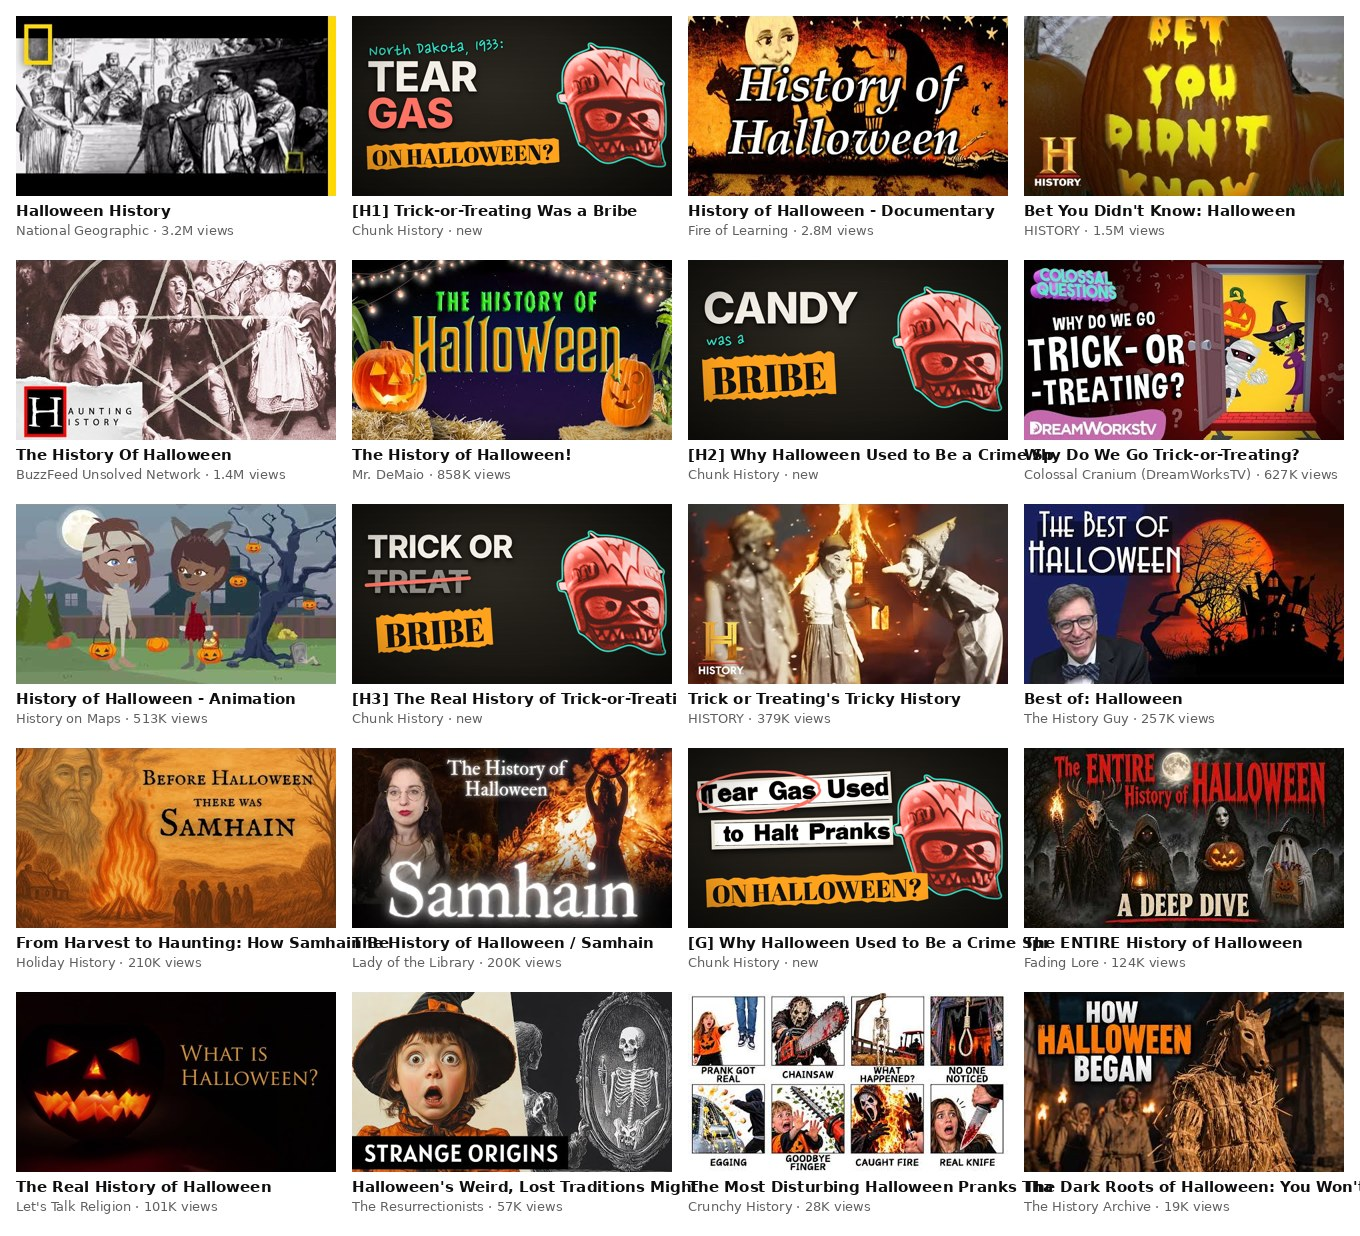
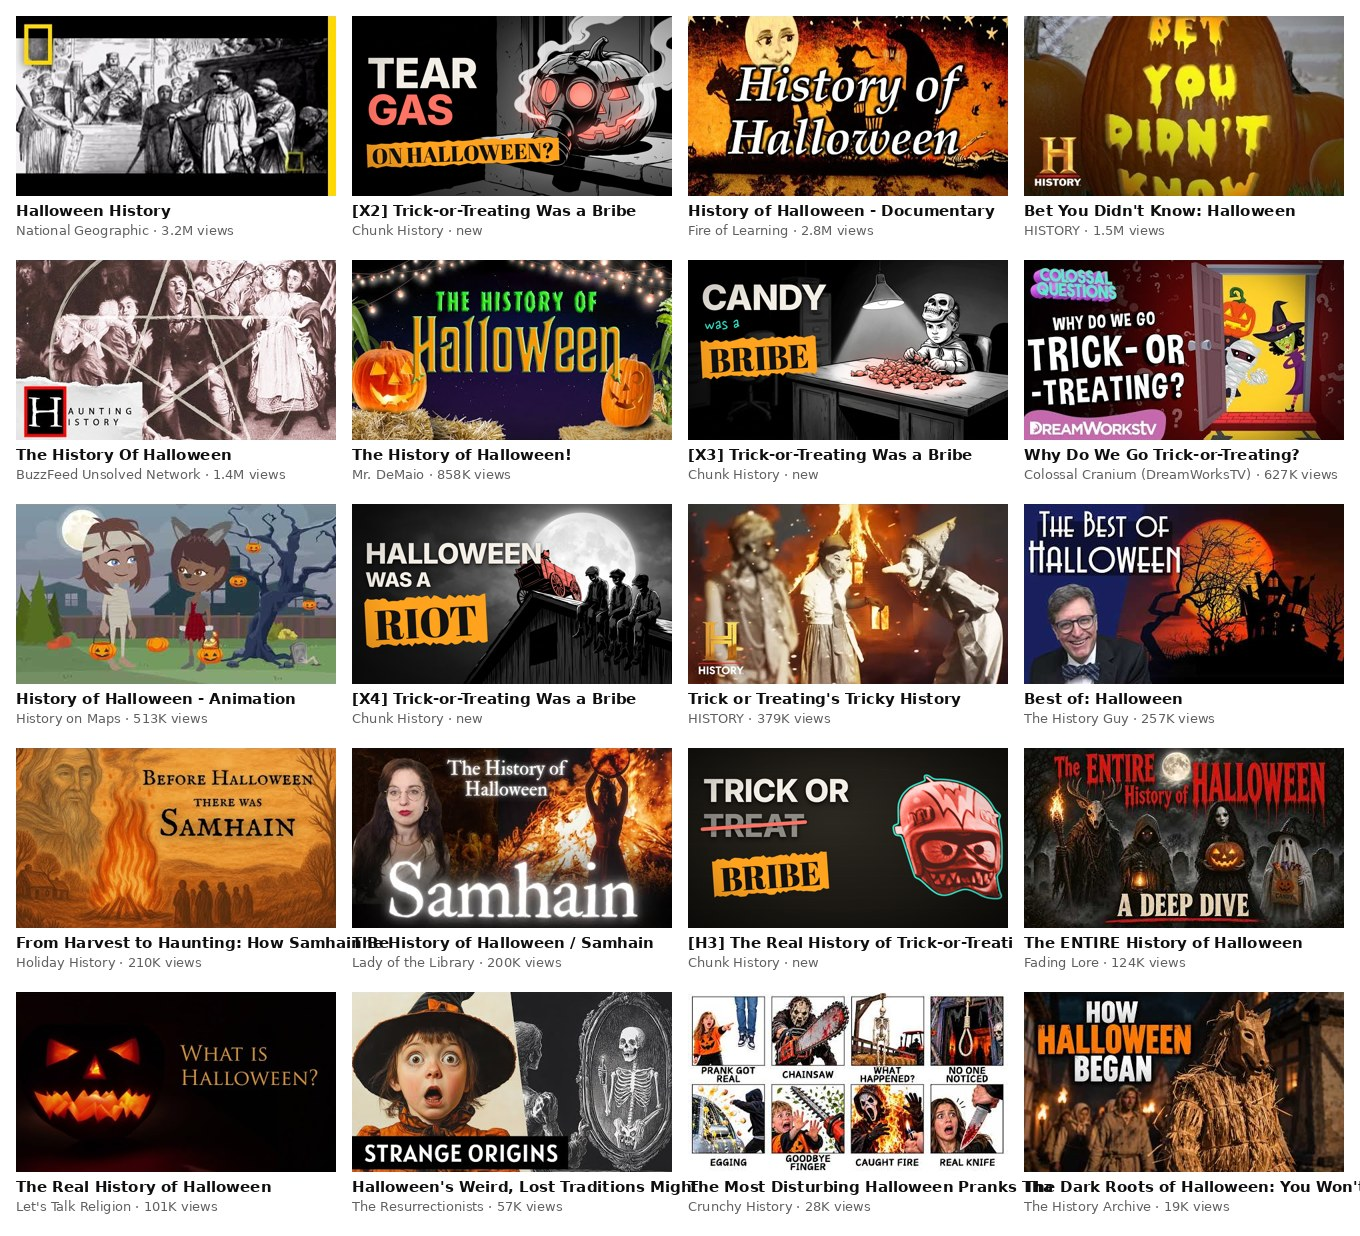
Halloween: thumbnail-only Gemini concepts X1-X5 (B&W + coral accent, 2K)
Claude-Session: https://claude.ai/code/session_017aRbDonm1FF42gZig9hAtV

diff --git a/projects/Halloween_Bribe/src/ThumbsHalloween.tsx b/projects/Halloween_Bribe/src/ThumbsHalloween.tsx
@@ -209,4 +209,54 @@ export const ThumbH4: React.FC = () => (
   </Clean>
 );
 
-export const HALLOWEEN_THUMBS: Record<string, React.FC> = {C: ThumbC, C2: ThumbC2, D: ThumbD, E: ThumbE, F: ThumbF, G: ThumbG, H1: ThumbH1, H2: ThumbH2, H3: ThumbH3, H4: ThumbH4};
+// X1–X5 · thumbnail-only Gemini images (B&W, one coral accent), clean type on the empty left.
+const XImg: React.FC<{n: number; children: React.ReactNode}> = ({n, children}) => (
+  <PaletteCtx.Provider value={PALETTES.locked}>
+    <AbsoluteFill style={{background: '#000', overflow: 'hidden'}}>
+      <Img src={staticFile(`img/gen/thumb/x${n}.png`)} style={{position: 'absolute', inset: 0, width: 1920, height: 1080, objectFit: 'cover'}} />
+      <AbsoluteFill style={{background: 'linear-gradient(90deg, rgba(0,0,0,0.55) 0%, rgba(0,0,0,0) 50%)'}} />
+      {children}
+      <Finish vignette={0.3} />
+    </AbsoluteFill>
+  </PaletteCtx.Provider>
+);
+export const ThumbX1: React.FC = () => (
+  <XImg n={1}>
+    <Word t="TRICK OR" x={80} y={230} size={170} color={CREAM} />
+    <Word t="TREAT?" x={80} y={420} size={170} color={CORAL} />
+    <Highlight text="(PAY UP)" x={80} y={650} size={120} at={0} seed={97} rot={-3} />
+  </XImg>
+);
+export const ThumbX2: React.FC = () => (
+  <XImg n={2}>
+    <Word t="TEAR" x={90} y={230} size={250} color={CREAM} />
+    <Word t="GAS" x={90} y={450} size={250} color={CORAL} />
+    <Highlight text="ON HALLOWEEN?" x={90} y={740} size={130} at={0} seed={98} rot={-2} />
+  </XImg>
+);
+export const ThumbX3: React.FC = () => (
+  <XImg n={3}>
+    <Word t="CANDY" x={80} y={130} size={210} color={CREAM} />
+    <Word t="was a" x={100} y={350} size={110} color={TEALC} font='"Nanum Pen Script", cursive' weight={400} rot={-4} spacing={0} />
+    <Highlight text="BRIBE" x={80} y={460} size={200} at={0} seed={99} rot={-3} />
+  </XImg>
+);
+export const ThumbX4: React.FC = () => (
+  <XImg n={4}>
+    <Word t="HALLOWEEN" x={80} y={220} size={170} color={CREAM} />
+    <Word t="WAS A" x={80} y={400} size={120} color={CREAM} />
+    <Highlight text="RIOT" x={80} y={550} size={250} at={0} seed={100} rot={-3} />
+  </XImg>
+);
+export const ThumbX5: React.FC = () => (
+  <XImg n={5}>
+    <Word t="TRICK OR" x={60} y={200} size={150} color={CREAM} />
+    <div style={{position: 'absolute', left: 60, top: 370}}>
+      <Word t="TREAT" x={0} y={0} size={150} color="rgba(244,239,230,0.55)" />
+      <div style={{position: 'absolute', left: -12, top: 58, width: 500, height: 18, background: CORAL, transform: 'rotate(-4deg)', borderRadius: 9}} />
+    </div>
+    <Highlight text="BRIBE" x={100} y={560} size={170} at={0} seed={101} rot={-4} />
+  </XImg>
+);
+
+export const HALLOWEEN_THUMBS: Record<string, React.FC> = {C: ThumbC, C2: ThumbC2, D: ThumbD, E: ThumbE, F: ThumbF, G: ThumbG, H1: ThumbH1, H2: ThumbH2, H3: ThumbH3, H4: ThumbH4, X1: ThumbX1, X2: ThumbX2, X3: ThumbX3, X4: ThumbX4, X5: ThumbX5};

diff --git a/projects/Halloween_Bribe/tools/feed_mock.py b/projects/Halloween_Bribe/tools/feed_mock.py
@@ -8,7 +8,7 @@ for l in rows:
 # Our concepts and their paired titles; pass keys on the command line to choose (default: H1 H2 H3 G)
 TITLES={'C':'Trick-or-Treating Was a Bribe','D':'Why Halloween Used to Be a Crime Spree','E':'Trick-or-Treating Was a Bribe','F':'The Real History of Trick-or-Treating','G':'Why Halloween Used to Be a Crime Spree','H1':'Trick-or-Treating Was a Bribe','H2':'Why Halloween Used to Be a Crime Spree','H3':'The Real History of Trick-or-Treating','H4':'The Real History of Trick-or-Treating'}
 keys=sys.argv[1:] or ['H1','H2','H3','G']
-ours={k:TITLES[k] for k in keys}
+ours={k:TITLES.get(k,'Trick-or-Treating Was a Bribe') for k in keys}
 items=list(comp)
 for i,k in zip([1,6,9,14],keys):
     items.insert(i,(f'renders/thumbnails/Halloween_Bribe_{k}.png',f'[{k}] '+ours[k],'Chunk History · new'))
